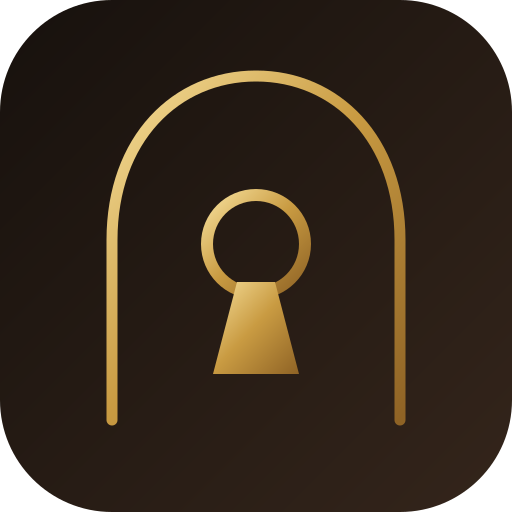
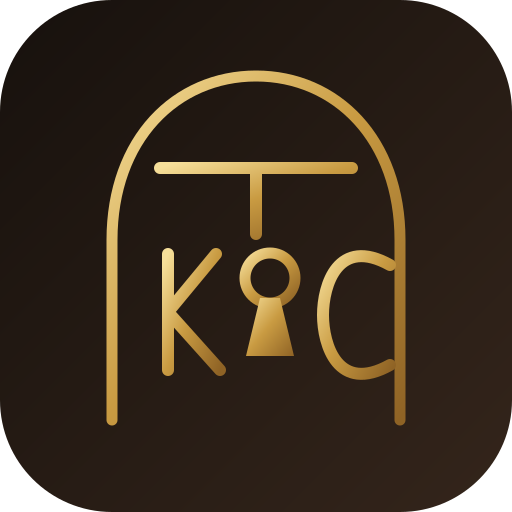
Adopt balanced TKC keyhole crest

Changed region(s): [[0.2812, 0.3125, 0.7812, 0.75]]

diff --git a/sw.js b/sw.js
@@ -1,7 +1,7 @@
-const CACHE='key-collective-6c3-brand-16.54.1';
+const CACHE='key-collective-6c3-brand-16.54.2';
 const APP_SHELL=['./','./index.html','./tokens.css?v=16.21','./app.css?v=16.49.0','./app.js?v=16.49.0','./config.js','./router.js','./store.js','./weather.js','./controllers.js','./pages.js','./news.js','./sprint3.js','./sprint4.js','./sprint5.js','./sprint6a.js','./sprint6b.js','./sprint6b1.js','./sprint6b1final.js','./sprint6b2.js','./sprint6b3.js','./sprint6b4.js','./sprint6b5.js','./sprint6b6.js','./sprint6b7.js','./sprint6b8.js?v=16.43.7','./sprint6b9.js','./sprint6b10.js','./sprint6b11.js','./sprint6b12.js','./sprint6b13.js','./sprint6b13r2.js','./sprint6b14.js','./sprint6b15.js','./sprint6b16.js','./sprint6b17.js','./sprint6b18.js?v=16.43.7','./sprint6b19.js','./sprint6b22.js?v=16.43.7','./sprint6b23.js','./sprint6b24.js','./sprint6b25.js','./sprint6b26.js?v=16.43.7','./sprint6b43.js?v=16.44.7','./sprint6b44.js?v=16.44.9','./sprint6b45.js?v=16.45.1','./sprint6b46.js?v=16.46.1','./sprint6b47.js?v=16.48.2','./sprint6b48.js?v=16.48.2','./sprint6b49.js?v=16.49.0','./google-calendar.js','./memo-db.js','./photo-db.js','./logo.png','./profile.jpg','./manifest.webmanifest','./icon-192.png','./icon-512.png','./apple-touch-icon.png'];
 APP_SHELL.push('./app.css?v=16.53.4','./app.js?v=16.53.4','./sprint6c1.js?v=16.52.4','./sprint6c3.js?v=16.53.4','./assets/companion/kiki.png','./assets/companion/lulu.png','./assets/companion/kiki-busybody.png','./assets/companion/kiki-dance.png','./assets/companion/lulu-mommy.png','./assets/companion/lulu-flowers.png');
-APP_SHELL.push('./app.css?v=16.54.1','./app.js?v=16.54.1','./manifest.webmanifest?v=16.54.1','./assets/key-collective-crest.svg','./favicon-48.png','./icon-maskable-512.png');
+APP_SHELL.push('./app.css?v=16.54.2','./app.js?v=16.54.2','./manifest.webmanifest?v=16.54.2','./assets/key-collective-crest.svg','./favicon-48.png','./icon-maskable-512.png');
 self.addEventListener('install',event=>event.waitUntil(caches.open(CACHE).then(cache=>cache.addAll(APP_SHELL)).then(()=>self.skipWaiting())));
 self.addEventListener('activate',event=>event.waitUntil(caches.keys().then(keys=>Promise.all(keys.filter(key=>key!==CACHE).map(key=>caches.delete(key)))).then(()=>self.clients.claim())));
 self.addEventListener('message',event=>{if(event.data?.type==='SKIP_WAITING')self.skipWaiting()});

diff --git a/index.html b/index.html
@@ -7,8 +7,8 @@
   <meta name="apple-mobile-web-app-status-bar-style" content="black-translucent">
   <meta name="application-name" content="The Key Collective OS">
   <meta name="format-detection" content="telephone=no"><title>The Key Collective OS</title>
-<link rel="manifest" href="manifest.webmanifest?v=16.54.1"><link rel="icon" type="image/png" sizes="48x48" href="favicon-48.png?v=16.54.1"><link rel="apple-touch-icon" sizes="180x180" href="apple-touch-icon.png?v=16.54.1">
-<link rel="stylesheet" href="tokens.css?v=16.21"><link rel="stylesheet" href="app.css?v=16.54.1">
+<link rel="manifest" href="manifest.webmanifest?v=16.54.2"><link rel="icon" type="image/png" sizes="48x48" href="favicon-48.png?v=16.54.2"><link rel="apple-touch-icon" sizes="180x180" href="apple-touch-icon.png?v=16.54.2">
+<link rel="stylesheet" href="tokens.css?v=16.21"><link rel="stylesheet" href="app.css?v=16.54.2">
 </head><body>
 <div id="appShell" class="app-shell">
   <div id="menuScrim" class="menu-scrim" aria-hidden="true"></div>
@@ -32,5 +32,5 @@
 </div>
 <div id="offlineBanner" class="offline-banner">Offline mode · saved features remain available</div>
 <div id="toast" class="toast" role="status"></div>
-<script type="module" src="app.js?v=16.54.1"></script>
+<script type="module" src="app.js?v=16.54.2"></script>
 </body></html>
